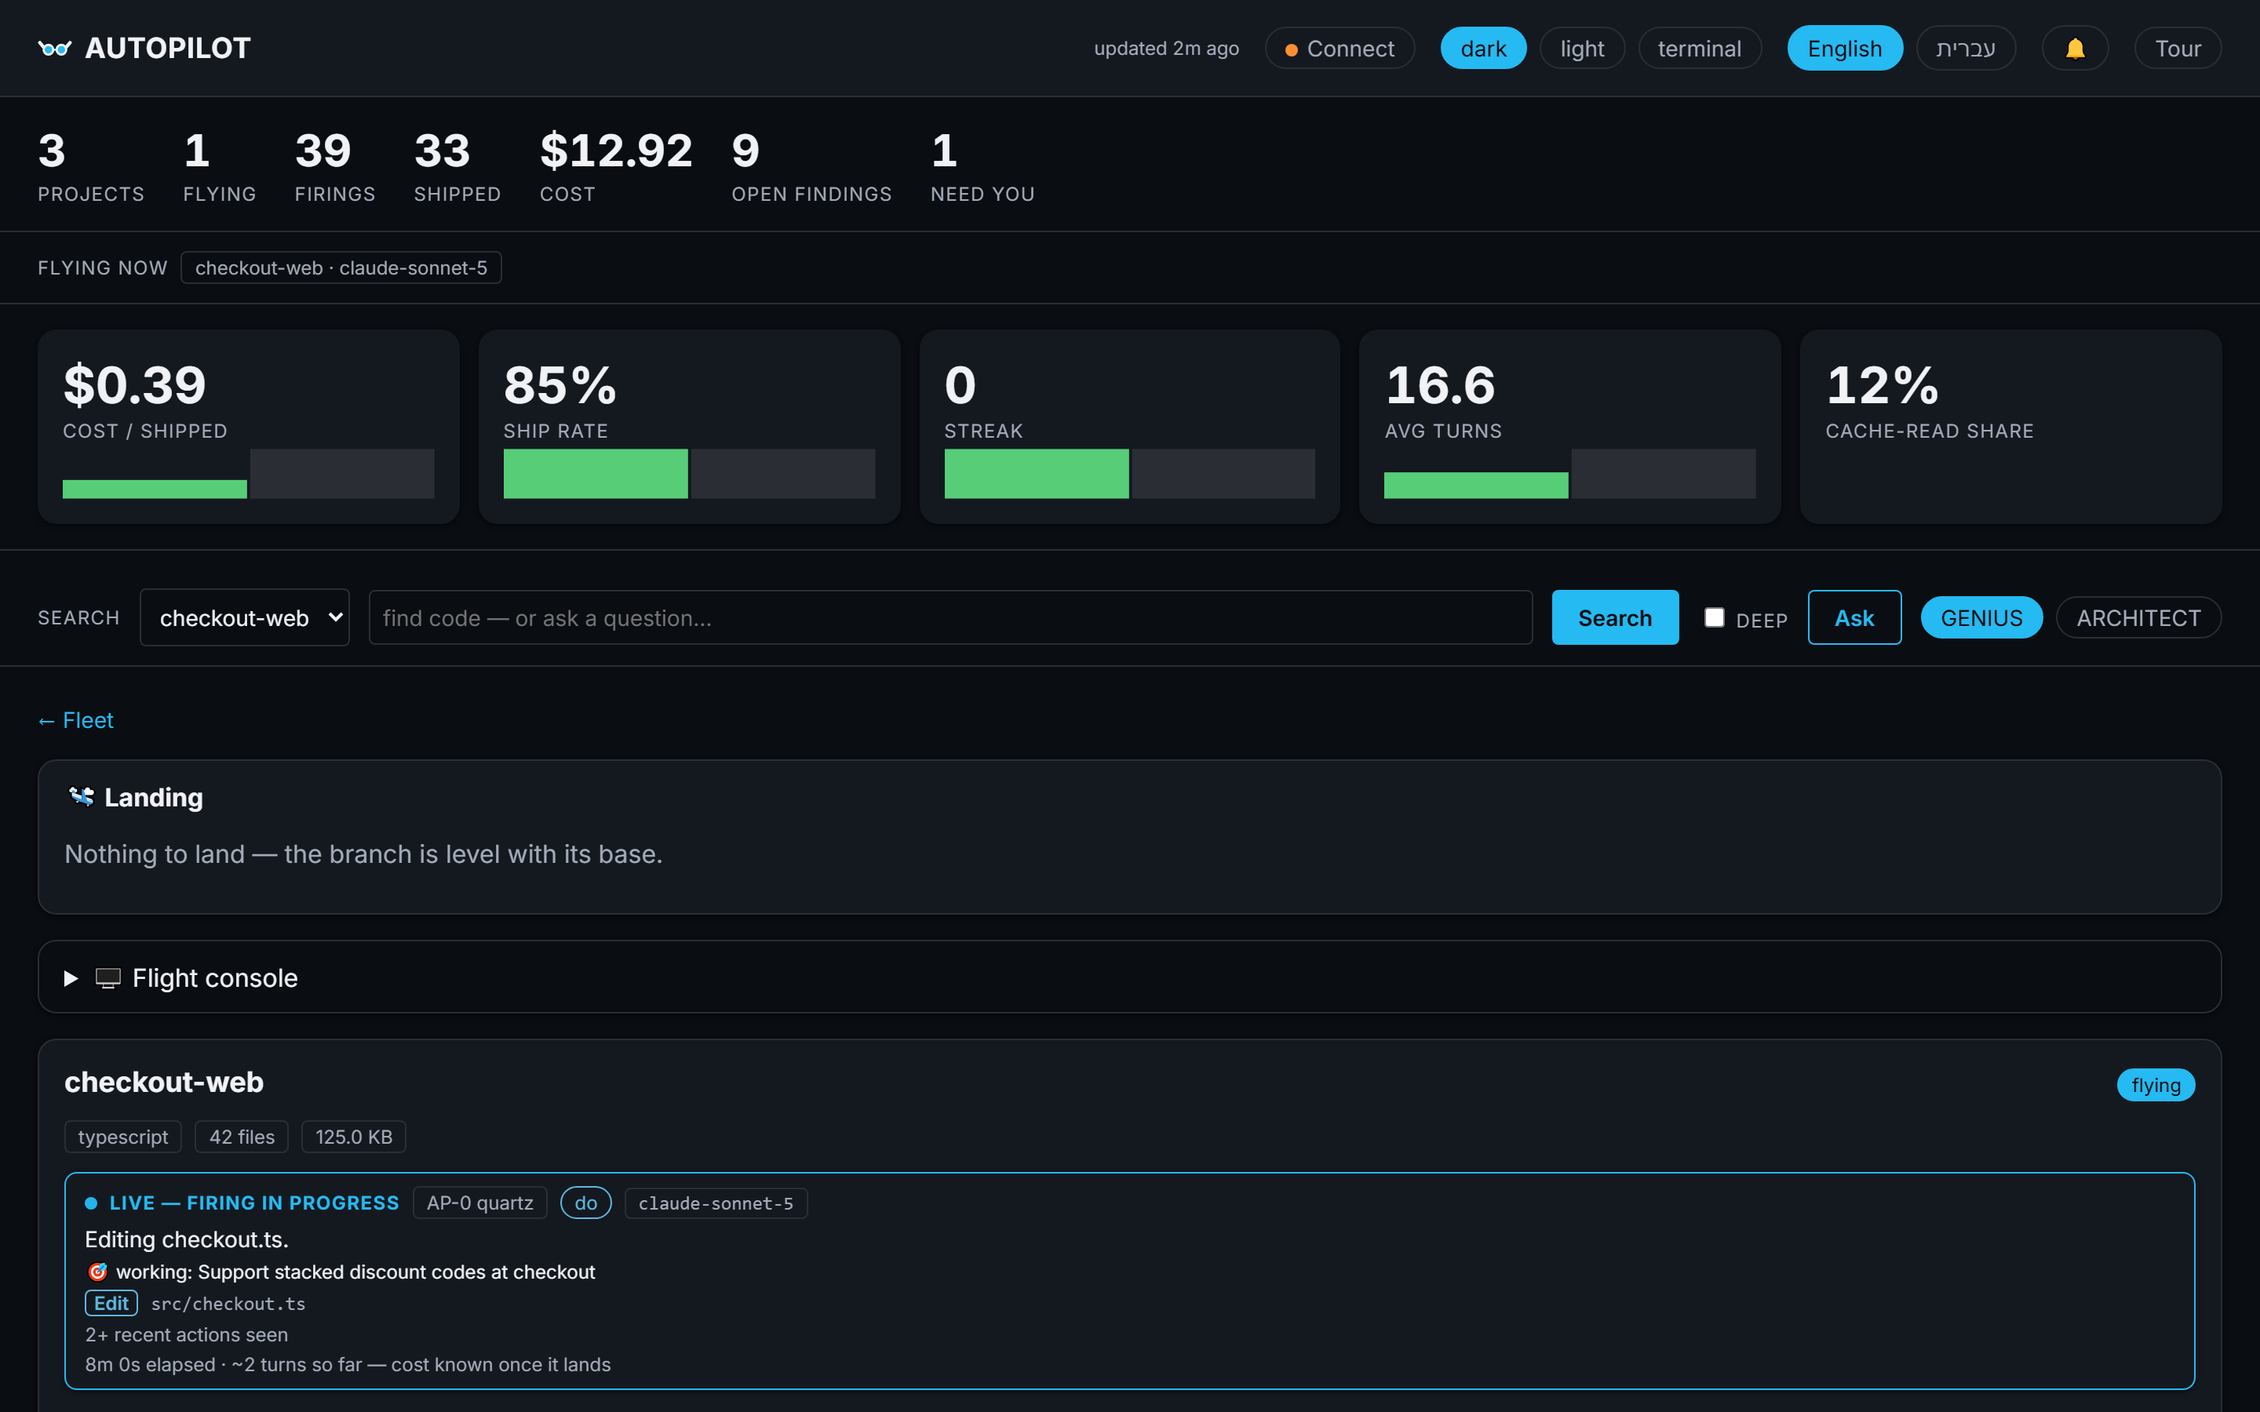
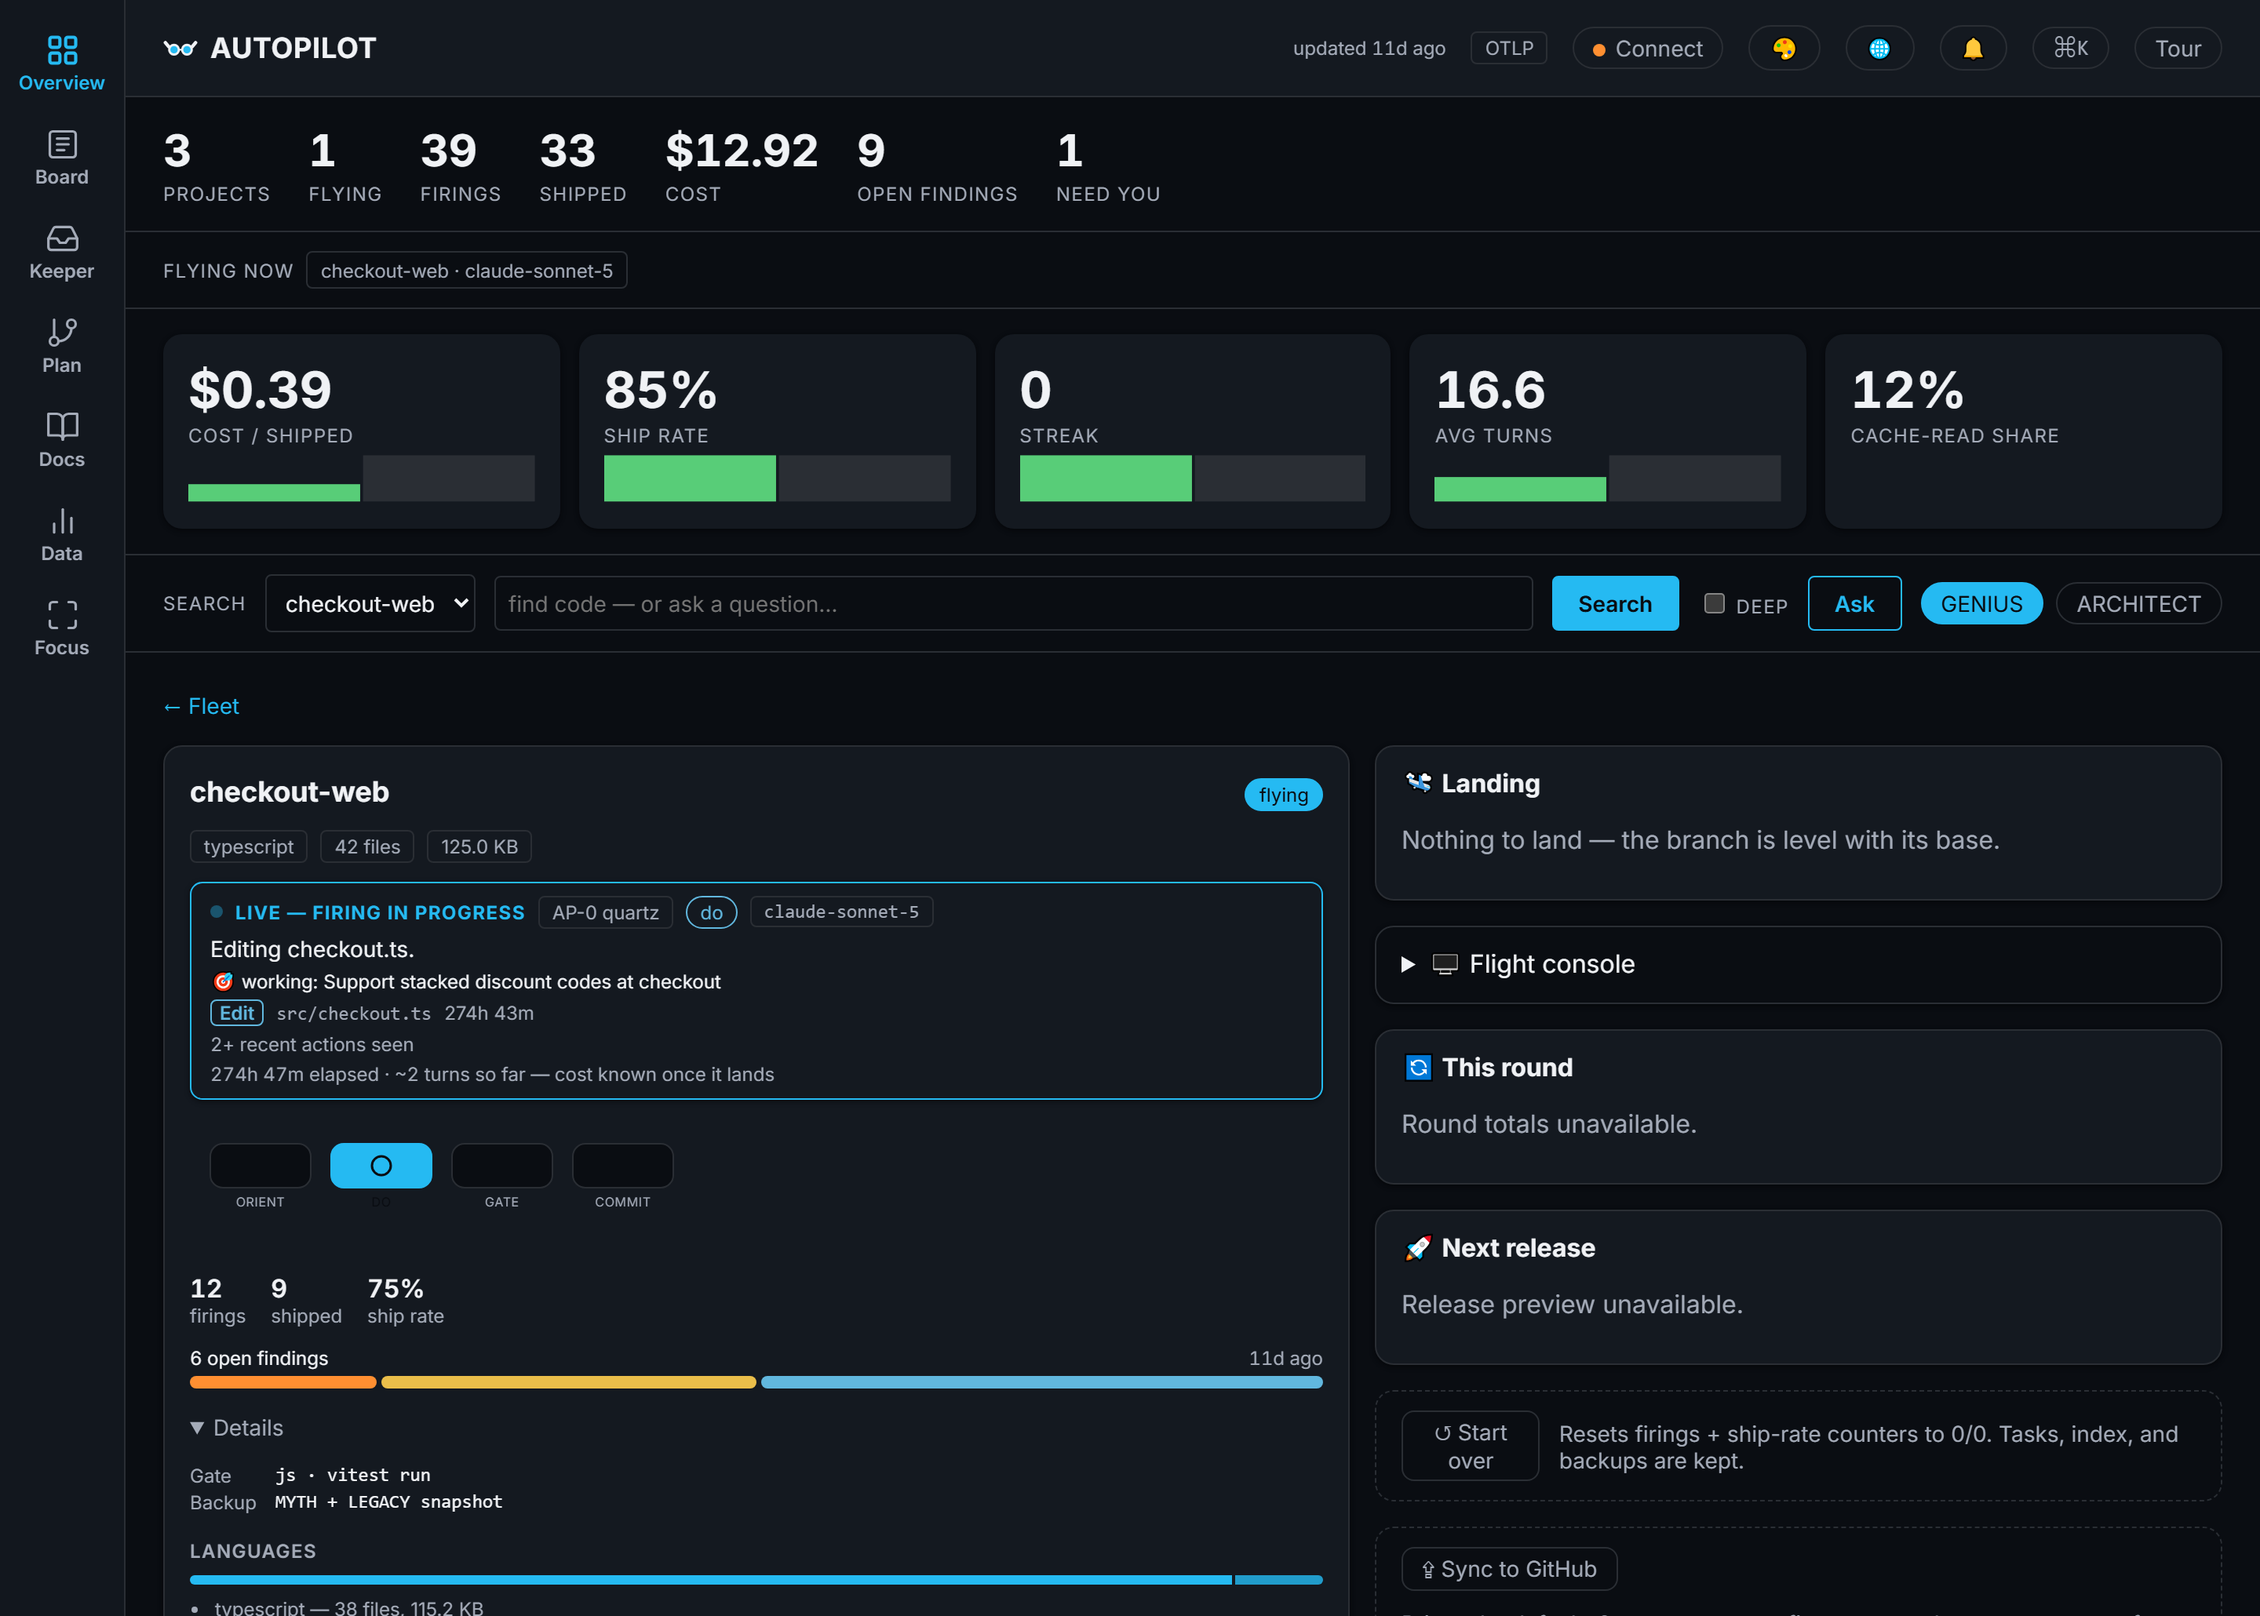
docs(readme): fresh screenshots of the app shell, and the status table at M5
Operator, 2026-09-12: "the software moved many versions since the last
screenshots — show the new qualities." The three README shots are retaken
from the populated fixture server on the current build (2880×2060, the same
size as before): the fleet home with the subject rail, five-up tiles and the
context rail; the light theme; and a project's cockpit in its two-column
Overview. Captions name what is new (subjects, the Keeper, the board as
columns, ⌘K, RTL), the status table records M4 shipped at v0.33.0 and M5 in
progress (the Keeper queue, landings and releases from the cockpit), and the
mutation line reads six nightly shards. 262 links checked, none broken.

diff --git a/README.md b/README.md
@@ -168,8 +168,9 @@ Built milestone-by-milestone per [`docs/ACTION-PLAN.md`](docs/ACTION-PLAN.md) (M
 | **M1** | Engine — the gated autonomous loop (resilience · un-fakeable telemetry · gate+revert) | ✅ `v0.7.1` |
 | **M2** | Onboarding — lock · back up (MYTH/LEGACY) · detect the gate · content-hash index | ✅ `v0.8.0` |
 | **M3** | Read-only dashboard ("watch it fly") | ✅ `v0.10.0` |
-| **M4** | Reactivity — live flight control, RAG, task board, parallel fleets | 🔄 in progress |
-| M5–M9 | Control & approvals · efficiency · multi-project · harness · packaging | planned |
+| **M4** | Reactivity — live flight control, RAG, task board, parallel fleets of worktree lanes | ✅ `v0.33.0` |
+| **M5** | Control & approvals — the Keeper queue (everything waiting on a human, one list), landings and releases from the cockpit | 🔄 in progress |
+| M6–M9 | Efficiency · multi-project · harness · packaging | planned |
 
 The proof is in this repository itself: AUTOPILOT **builds AUTOPILOT** — fleets of its own agents fly this repo, and
 every firing, gate verdict, ship, death, and dollar is measured and published in
@@ -180,15 +181,20 @@ regenerated by the flights themselves. No claims without a paper trail.
 
 The dashboard below is rendered from the deterministic demo fixture (`scripts/launchers/DEMO-DASHBOARD.cmd` seeds it in one click) — real server, real client, no live account needed.
 
-**The fleet home — every project, live workers, spend and ship-rate at a glance** *(dark)*:
+**The fleet home — the app shell**: subjects on a rail (a bottom bar on a phone), the fleet's totals and
+tiles, every project as a card with its live firing, and the context rail beside it all for who is flying now
+*(dark)*:
 
 ![AUTOPILOT fleet dashboard, dark theme](docs/screens/fleet-dark.png)
 
-**The same fleet in light** — both themes are first-class (and there is a third, terminal):
+**The same fleet in light** — all three themes (dark · light · terminal) are first-class, contrast-verified,
+and reach the browser's own chrome:
 
 ![AUTOPILOT fleet dashboard, light theme](docs/screens/fleet-light.png)
 
-**One project's cockpit — live firing, task board, gauges, flight log**:
+**One project's cockpit** — the live firing beside its operational stack (landing, console, this round, next
+release), then the board as columns, the Keeper, the plan editor, the docs reader and the data, one subject at
+a time; ⌘K goes anywhere, and Hebrew mirrors the whole layout as a real `dir="rtl"`:
 
 ![AUTOPILOT project page, dark theme](docs/screens/project-dark.png)
 
@@ -214,7 +220,7 @@ The rest of the toolbox:
 
 ```bash
 pnpm run verify         # the full gate: typecheck · lint · format · test (≥80% cov) · build · secret/PII/SPDX scans
-pnpm run mutation       # optional, slow: 103 Stryker mutation-testing runs (also runs nightly in CI)
+pnpm run mutation       # optional, slow: ~110 Stryker mutation-testing runs (nightly in CI as six shards)
 pnpm dashboard:status   # running | stopped | stale (+ doctor checks)   · dashboard:stop to stop
 pnpm dashboard:watch    # RING-0 supervisor: owns start/revive/replace — observe, don't babysit
 ```
